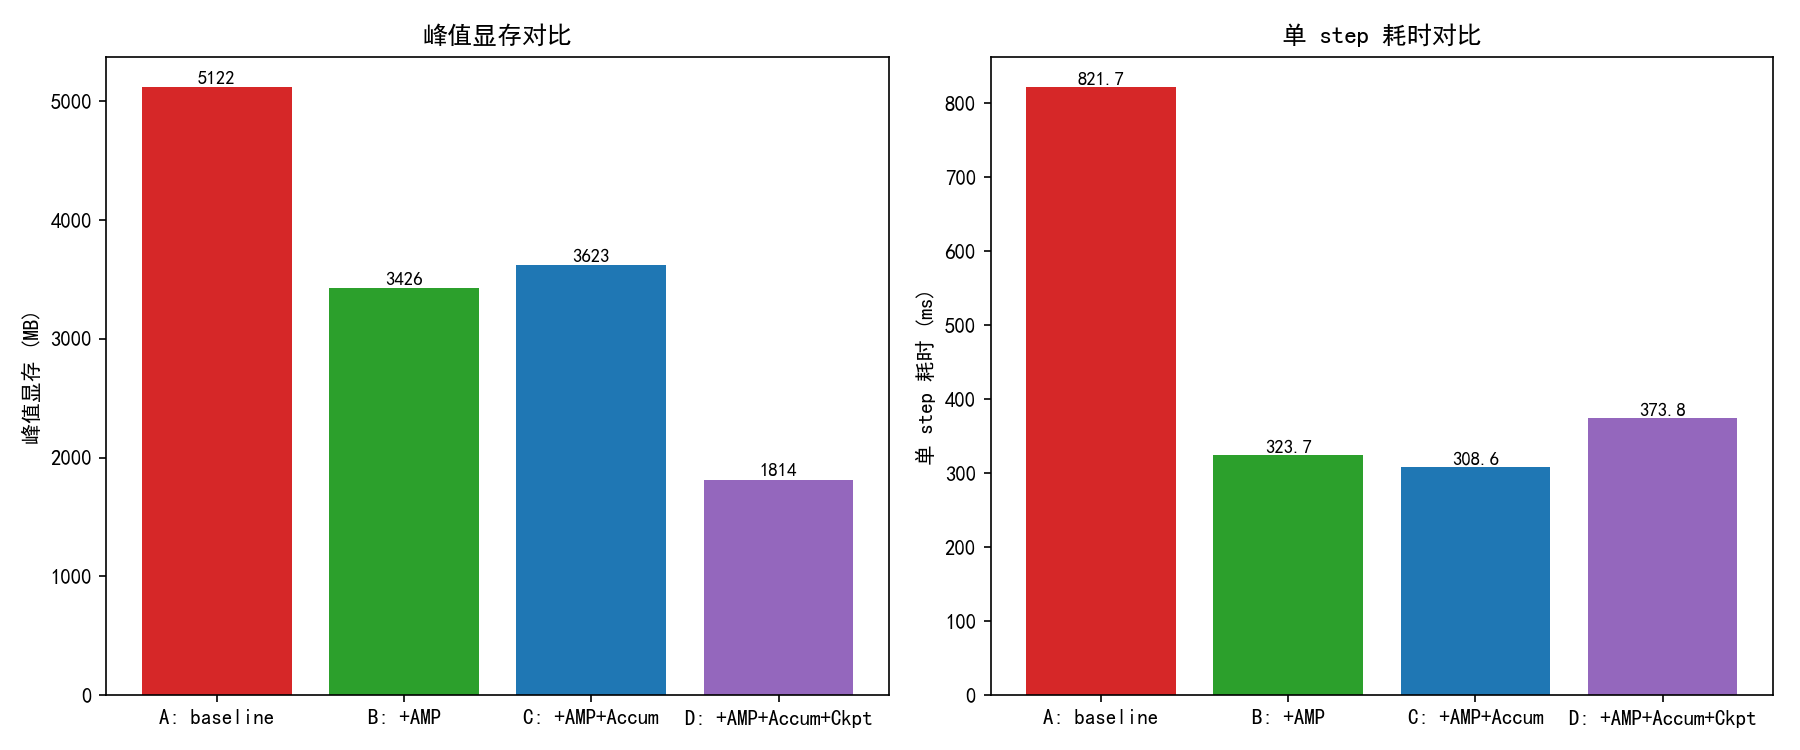
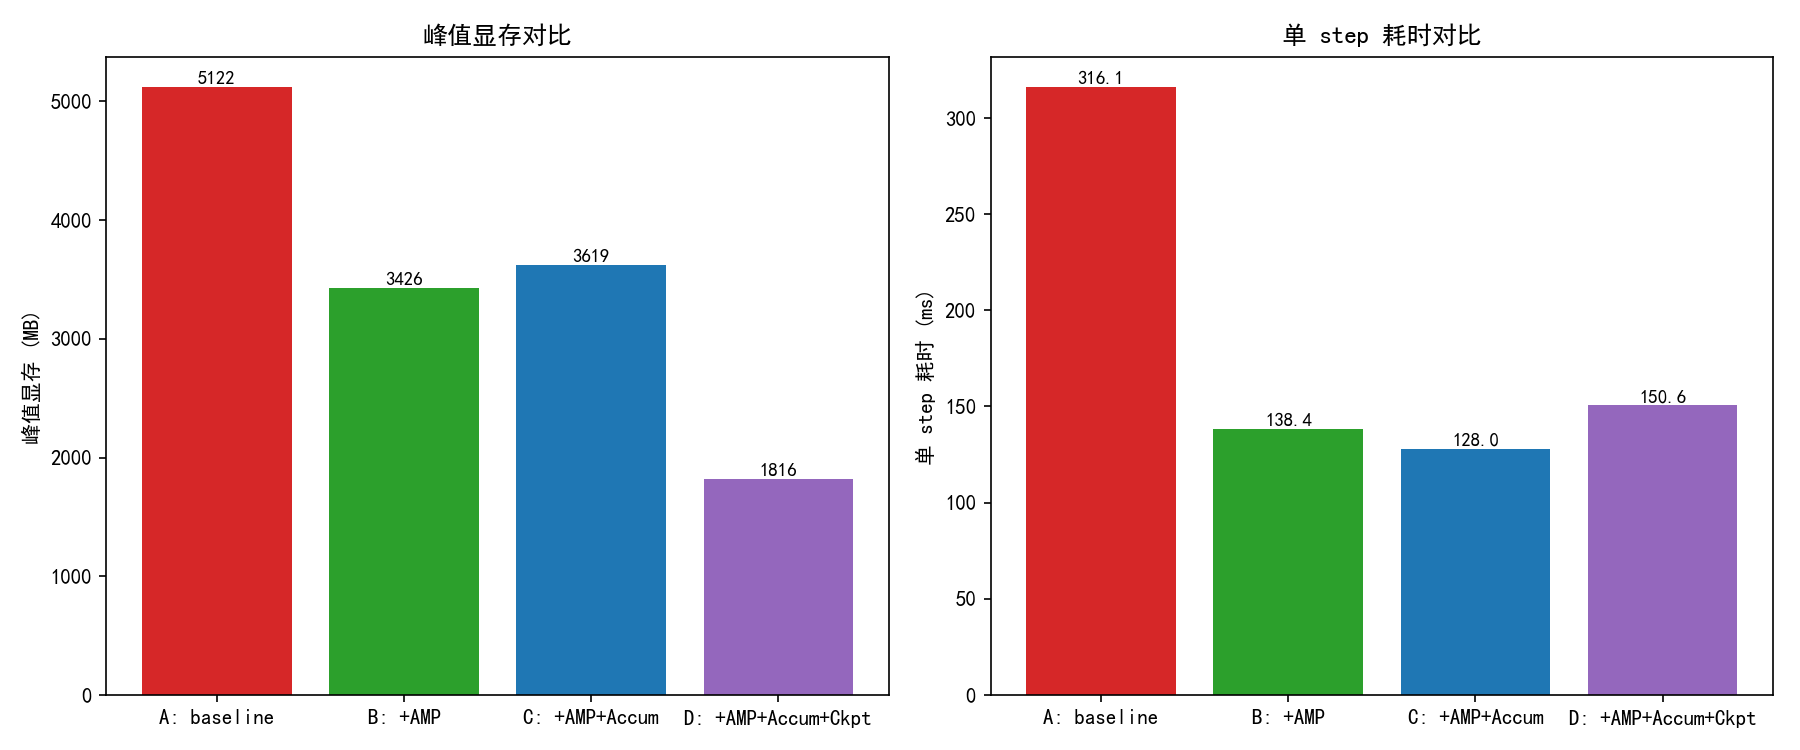
doc: 代码练习适配 4060 8GB

diff --git a/Playground/ch07-generation/02_kv_cache.py b/Playground/ch07-generation/02_kv_cache.py
@@ -147,7 +147,7 @@ def main() -> None:
     print(f"device: {device}")
     torch.manual_seed(0)
 
-    V, d, H, L, max_len = 64, 384, 6, 6, 1024
+    V, d, H, L, max_len = 64, 768, 12, 8, 2048
     # 用同一份初始化构造两个模型：一个无 cache 走 ch06 原版，一个带 cache
     model_no_cache = MiniGPT(V, d, H, L, max_len).to(device).eval()
     torch.manual_seed(0)
@@ -176,9 +176,9 @@ def main() -> None:
     assert diff == 0, "KV cache 与无 cache 路径必须输出完全一致的 token 序列"
 
     # ---- 验证 2：性能加速 ----
-    print("\n性能对比：生成 400 个 token（序列足够长 attention 才主导耗时）")
+    print("\n性能对比：生成 800 个 token（序列足够长 attention 才主导耗时）")
     prompt = torch.randint(0, V, (1, 4), device=device)
-    n_new = 400
+    n_new = 800
 
     # warm up（避免首次 CUDA kernel 编译开销混入计时）
     _ = model_kv.generate_kv(prompt.clone(), max_new_tokens=10)
